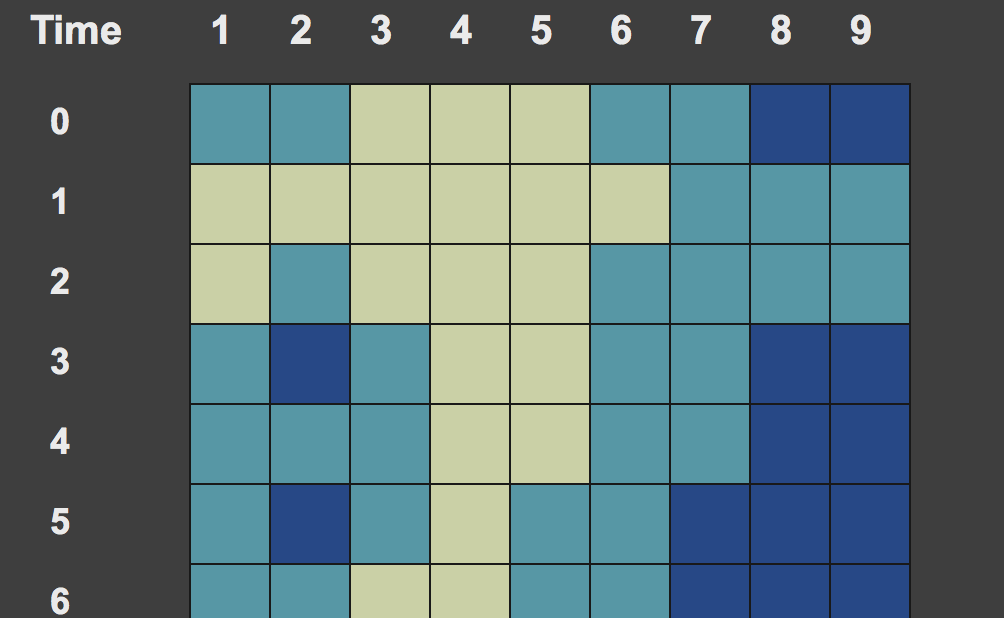
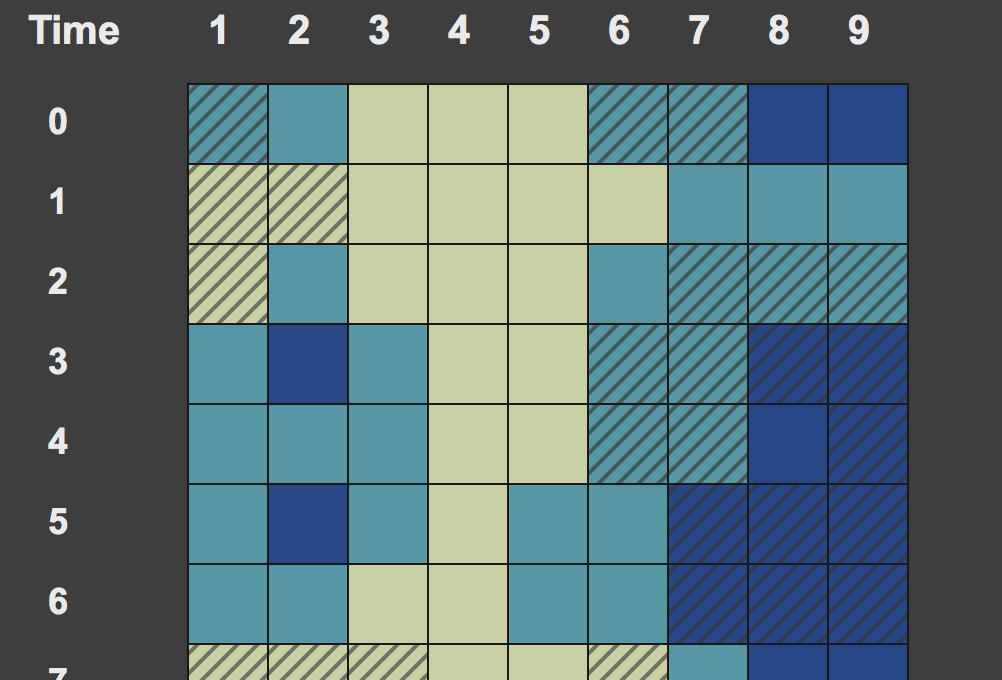
Update portfolio

diff --git a/portfolio3.html b/portfolio3.html
@@ -5,8 +5,10 @@
 		<div class="row">
 			<div class="col-sm-9">
 				<div class="project-info">
-					<h3>Anomaly</h3>
-					<p>We implemented three anomaly detection algorithms: Auto-encoders, one-class SVM, and Iso Forest.</p>
+					<h3>Donut visulizaions</h3>
+					<p>Click the heatmap to show the plots of the corresponding timestep.</p>
+					<p>Left: shows the concentric view of the selected timestep. Three clusters/colors (yellow, cyan, blue) representing high, median and low density. Anomalies are marked in texture.</p>
+					<p>Right: shows the log electron density of each individual coordinate using randomly sampled data of the entire magnetosphere. Lighter colors indicate greater electron density.</p>
 				</div>
 			</div>
 			<!-- <div class="col-sm-3">
@@ -15,7 +17,7 @@
 					<p><span>Cluster: </span>Three clusters/blue colors (light, median, dark) representing high, median and low density for all nine rhos</p>
 					<p><span>Hover:</span> Show statistics of the donut.</p>
 					<p><span>Anomaly:</span> Anomalies are marked in grey according to the algorithm chosen.</p>
-				</div>  
+				</div>
 			</div> -->
 		</div>
 	</div>

diff --git a/portfolio4.html b/portfolio4.html
@@ -6,8 +6,8 @@
 			<div class="col-sm-9">
 				<div class="project-info">
 					<h3>Donut visulizaions</h3>
-					<p>Top left: shows the concentric view of the selected timestep. Anomalies are shaded in grey.</p>
-					<p>Top right: shows the states of each individual coordinate using random sampling of the entire space. Lighter colors indicate greater electron density.</p>
+					<p>Click the heatmap to show the plot of the corresponding timestep and rho.</p>
+					<p>It represents the electron density of the individual donut selected. Lighter colors indicate greater electron density.</p>
 				</div>
 			</div>
 			<!-- <div class="col-sm-3">
@@ -16,7 +16,7 @@
 					<p><span>Cluster: </span>Three clusters/blue colors (light, median, dark) representing high, median and low density for all nine rhos</p>
 					<p><span>Hover:</span> Show statistics of the donut.</p>
 					<p><span>Anomaly:</span> Anomalies are marked in grey according to the algorithm chosen.</p>
-				</div>  
+				</div>
 			</div> -->
 		</div>
 	</div>

diff --git a/portfolio1.html b/portfolio1.html
@@ -6,7 +6,7 @@
 			<div class="col-sm-9">
 				<div class="project-info">
 					<h3>Control</h3>
-				    <p>Anomaly Detection Algorithm: A dropdown menu to select the anomaly detection algorithm.</p>
+				    <p>Anomaly Detection Algorithm: A dropdown menu to select the anomaly detection algorithm. There are three algorithms to choose from: Auto-encoders, One-class SVM, and Isolation Forest. There's also a voted classifier, which flags a state as an anomaly if 2 out of the 3 algorithms flag it as anomaly.</p>
 				    <p>Time Range: A slider to select the time range (0-500) to present.</p>
 				</div>
 			<!-- </div>
@@ -16,7 +16,7 @@
 					<p><span>Cluster: </span>Three clusters/blue colors (light, median, dark) representing high, median and low density for all nine rhos</p>
 					<p><span>Hover:</span> Show statistics of the donut.</p>
 					<p><span>Anomaly:</span> Anomalies are marked in grey according to the algorithm chosen.</p>
-				</div>  
+				</div>
 			</div> -->
 		</div>
 	</div>

diff --git a/index2.html b/index2.html
@@ -204,9 +204,9 @@
         summaryData = data;
       });
 
-      d3.csv("data/sample_500.csv", function(error, data) {
-        dotData = data;
-      });
+      // d3.csv("data/sample_500.csv", function(error, data) {
+      //   dotData = data;
+      // });
 
       d3.csv("data/donut_mean.csv", function(error, data) {
         donutData = data;
@@ -274,7 +274,11 @@
 
       d3.csv("data/donut_kmeans.csv", function(error, data) {
         clusterData = data;
-        updateTable("Isolation Forest",0,101);
+        d3.csv("data/sample_500.csv", function(error, data) {
+          dotData = data;
+          updateTable("Isolation Forest",0,101);
+        });
+        
       });
 
       var sliderRange = d3

diff --git a/portfolio2.html b/portfolio2.html
@@ -12,10 +12,10 @@
 			<div class="col-sm-3">
 				<div class="project-details">
 					<h3>Heatmap Details</h3>
-					<p><span>Cluster: </span>Three clusters/blue colors (light, median, dark) representing high, median and low density for all nine rhos</p>
+					<p><span>Cluster: </span>Three clusters/colors (yellow, cyan, blue) representing high, median and low density for all nine rhos</p>
 					<p><span>Hover:</span> Show statistics of the donut.</p>
-					<p><span>Anomaly:</span> Anomalies are marked in grey according to the algorithm chosen.</p>
-				</div>  
+					<p><span>Anomaly:</span> Anomalies are marked in texture according to the algorithm chosen.</p>
+				</div>
 			</div>
 		</div>
 	</div>

diff --git a/index.html b/index.html
@@ -362,8 +362,8 @@
               <div class="overlay-content">
                 <div class="overlay-text">
                   <div class="folio-info">
-                    <h3>Anomaly</h3>
-                    <p>4 Anomaly detection algorithms</p>
+                    <h3>Donut Visualizations</h3>
+                    <p>According to selected timestep</p>
                   </div>
                   <div class="folio-overview">
                     <span class="folio-link"><a class="folio-read-more" href="#" data-single_url="portfolio3.html" ><i class="fa fa-link"></i></a></span>

diff --git a/portfolio5.html b/portfolio5.html
@@ -6,7 +6,9 @@
 			<div class="col-sm-9">
 				<div class="project-info">
 					<h3>Trend Analysis</h3>
-					<p>For time window selected, shows the electron density for specified donut cross section.</p>
+
+					<p>For time window selected, shows the mean and confidence interval of log electron density for specified donut cross section. Anomalies are marked in yellow dots.</p>
+
 				</div>
 			</div>
 			<!-- <div class="col-sm-3">
